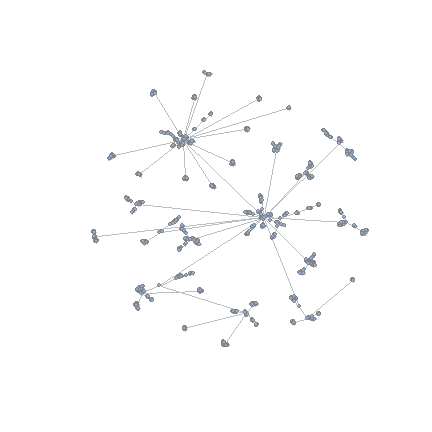
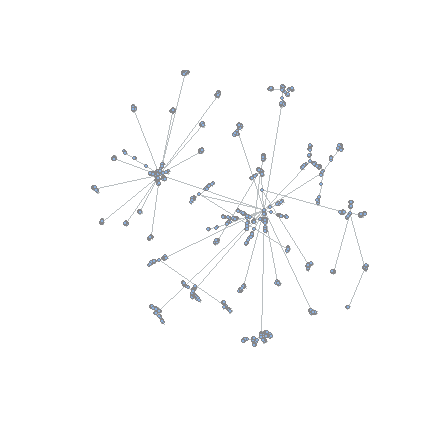
Added function to create economic activity graph

diff --git a/vignettes/economic-activity-hierarchy.html b/vignettes/economic-activity-hierarchy.html
@@ -256,7 +256,7 @@ hr {
 
 <h2><a name="create_graph"></a>Creating a economic activity graph</h2>
 
-<p>To do any calculation or plotting on the economic activity hierarchy, we have to create a graph. Th=</p>
+<p>To do any calculation or plotting on the economic activity hierarchy, we have to create a graph. The parameters <em>col_id</em> and <em>col_id_parent</em> are the column names that contain the economic activity code and the parent code respectively.</p>
 
 <pre><code class="r">graph_SBI &lt;- create_economic_activity_graph(tbl_SBI_count, 
                                             col_id = &quot;code_SBI&quot;, 
@@ -265,7 +265,7 @@ hr {
 
 <h3><a name="visualize"></a>Visualizing the hierarchy</h3>
 
-<p>Now if we visualize the hierarchy with the package&#39;s <em>plot_graydon_graph</em> function we can see it is very complex:</p>
+<p>By visualizing the hierarchy with the package&#39;s <em>plot_graydon_graph</em> function we can see it is very complex:</p>
 
 <pre><code class="r">plot_graydon_graph(graph_SBI, 
                    vertex.label = &quot;&quot;, 
@@ -273,7 +273,7 @@ hr {
                    edge.arrow.size = 0)
 </code></pre>
 
[2 lines of base64/hex data omitted]
 
 <h2><a name="roll_up"></a>Rolling up the hierarchy on values</h2>
 
@@ -295,18 +295,11 @@ plot_graydon_graph(graph_SBI_rolled,
                    edge.arrow.size = 0)
 </code></pre>
 
[2 lines of base64/hex data omitted]
 
-<pre><code class="r"># Cleaning hierarchy by removing codes that have a 0 value and are non connective (don&#39;t have children that contain values)
-# tbl_hierarchy_rolled &lt;- clean_hierarchy(tbl_hierarchy_rolled)
-</code></pre>
+<p>This graph is the basis of translating the original economic activity </p>
 
-<pre><code class="r"># plot_hierarchy(tbl_hierarchy_rolled, title = &quot;Rolled up&quot;)
-</code></pre>
-
-<h2>Set level</h2>
-
-<pre><code class="r"># tbl_hierarchy_set &lt;- hierarchy_code_level(tbl_hierarchy_clean, level_no = 2)
+<pre><code class="r">df_translation_codes &lt;- hierarchy_as_data_frame(graph_SBI_rolled)
 </code></pre>
 
 </body>

diff --git a/vignettes/economic-activity-hierarchy.md b/vignettes/economic-activity-hierarchy.md
@@ -55,12 +55,54 @@ data.frame(`Column names` = names(tbl_SBI_count)) %>%
 
 To do any calculation or plotting on the economic activity hierarchy, we have to create a graph. The parameters _col_id_ and _col_id_parent_ are the column names that contain the economic activity code and the parent code respectively.
 
+```r
+graph_SBI <- create_economic_activity_graph(tbl_SBI_count, 
+                                            col_id = "code_SBI", 
+                                            col_id_parent = "code_SBI_parent")
+```
+
+### <a name="visualize"></a>Visualizing the hierarchy
+
+By visualizing the hierarchy with the package's _plot_graydon_graph_ function we can see it is very complex:
+
+```r
+plot_graydon_graph(graph_SBI, 
+                   vertex.label = "", 
+                   vertex.size = 3, 
+                   edge.arrow.size = 0)
+```
+
+![plot of chunk unnamed-chunk-4](figure/unnamed-chunk-4-1.png)
+
+## <a name="roll_up"></a>Rolling up the hierarchy on values
+
+A method for decreasing the complexity of the hierarchy is aggregating subcodes into higher up codes according whenever subnodes do not meet a minimum value requirement. Let's take the number of companies as an example: whenever the number of companies is lower than 5000, the companies with that subcode will get the code of one higher up in the hierarchy:
 
 
+```r
+graph_SBI_rolled <- roll_up_hierarchy_by_minimum(graph_tree = graph_SBI, 
+                                                 name_attribute = "qty_companies", 
+                                                 name_propagated = "qty_companies_cum", 
+                                                 threshold = 5000)
+```
+
+Maybe it doesn't look as simple as you might want it to be, but it is a lot simpler than you'd think. The smaller networks you now see are the 'translation' networks: they specify which subcode should be recoded to which 'higher up' code. The highest code get's a loop back to itself. So each 'subnetwork' in this plot is actually one code in the newly acquired aggregation. The 'higher up' codes are marked as orange in this graph.
 
 
+```r
+V(graph_SBI_rolled)$color <- ifelse(V(graph_SBI_rolled)$is_root, 1, 2)
 
+plot_graydon_graph(graph_SBI_rolled, 
+                   vertex.label = "", 
+                   vertex.size = 3, 
+                   edge.arrow.size = 0)
+```
 
+![plot of chunk unnamed-chunk-6](figure/unnamed-chunk-6-1.png)
 
+This graph is the basis of translating the original economic activity 
 
+```r
+df_translation_codes <- hierarchy_as_data_frame(graph_SBI_rolled)
+```
 
